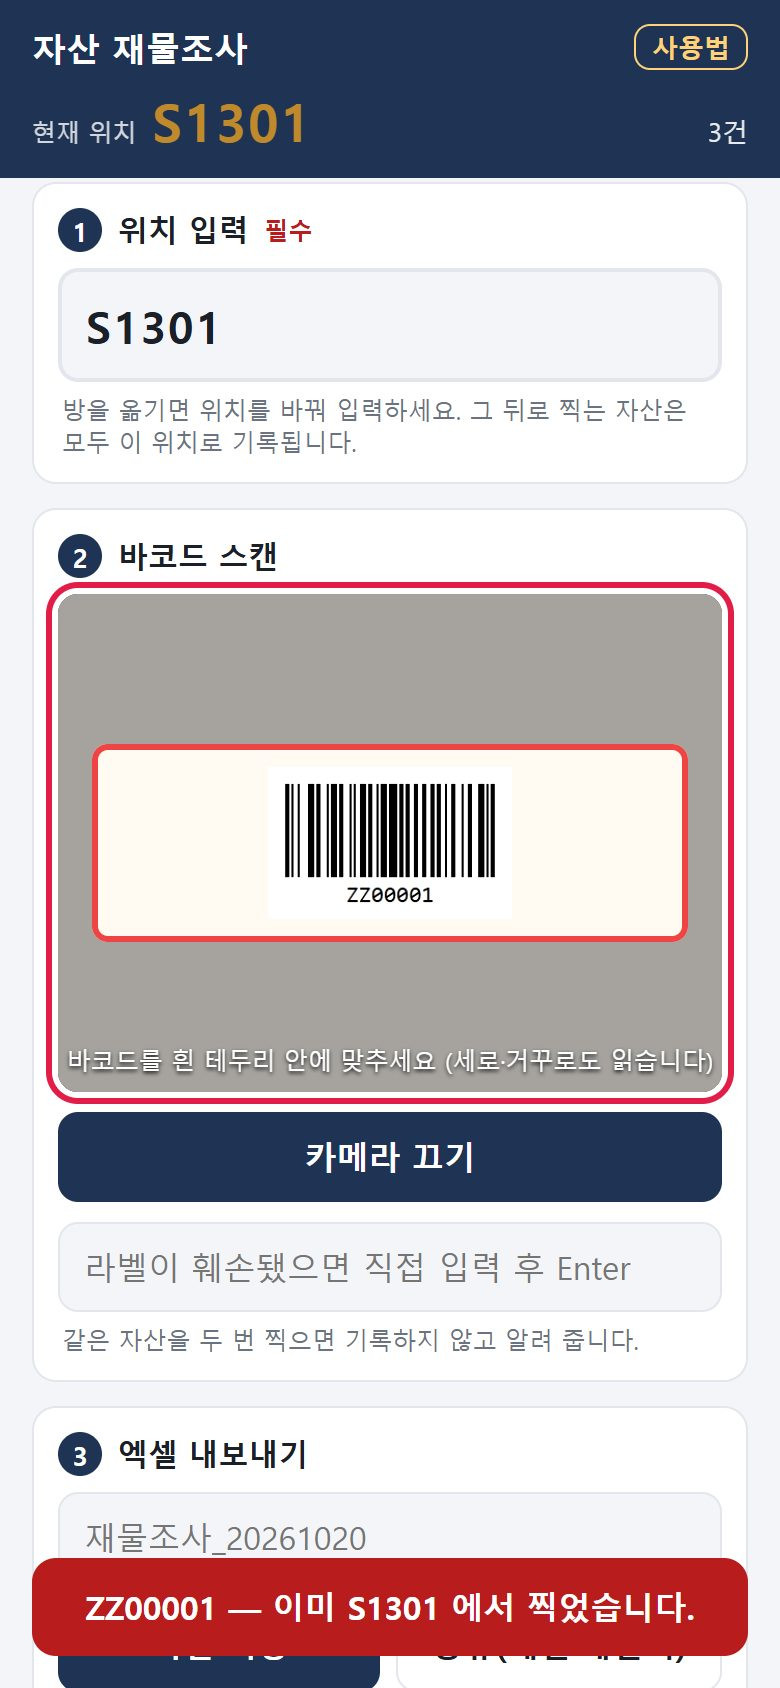
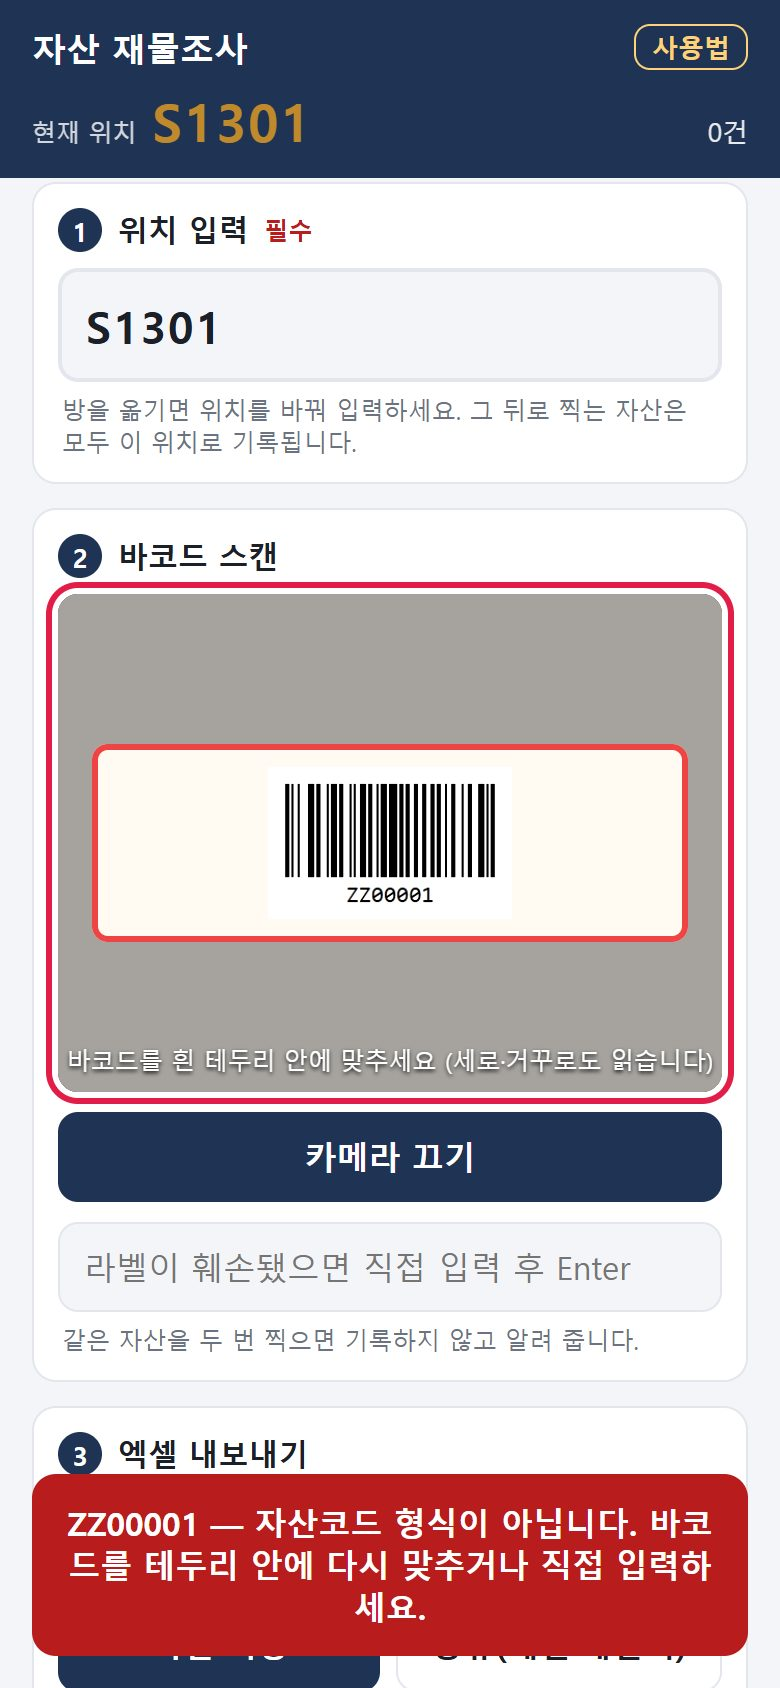
Tighten asset code rule to the real 7-char structure
Category letter + acquisition-year code (95-99 or A0-C9) + 4-digit serial.
Matches all 23,167 codes in the 2025 tangible asset register.

Changed region(s): [[0.0308, 0.8626, 0.9846, 0.9858], [0.8923, 0.0616, 0.9231, 0.0924]]

diff --git a/app.js b/app.js
@@ -25,9 +25,12 @@
 
   function norm(code) { return String(code || '').trim().toUpperCase(); }
 
-  // 카메라로 읽은 값의 자산번호 형식 — 영문 1~3자 + 숫자 4~7자리 (실측: EA91011·E950534·BC00001 등)
-  // 거꾸로·잘려 읽힌 값(예: 11019AE)을 막는다. 직접 입력은 사람이 본 값이라 검사하지 않는다.
-  var ASSET_RE = /^[A-Z]{1,3}\d{4,7}$/;
+  // 카메라로 읽은 값의 자산코드 형식 — 7자리 = 분류 1자 + 취득연도 2자 + 일련번호 4자리
+  //   분류: B 건물 · C 건물장비 · D 구축물 · E 기기장비 · F 공기구비품 · G 차량운반구 · X 소프트웨어 등 · Z 기타(예술품 등)
+  //   취득연도: 1990년대 = 숫자 2자리(95~99) / 2000년대~ = 연대 문자 + 끝자리(A0=2000, B9=2019, C5=2025)
+  //   근거: 2025 유형자산명세서 22개 시트 고유 코드 23,167건 전부 일치(261021). ⚠ 2030년(D0~)부터는 [A-C] → [A-D] 로 넓힐 것
+  // 거꾸로·잘려 읽힌 값(숫자로 시작하는 값, 6자리로 잘린 값 등)을 막는다. 직접 입력은 사람이 본 값이라 검사하지 않는다.
+  var ASSET_RE = /^[BCDEFGXZ](9\d|[A-C]\d)\d{4}$/;
 
   // 들어온 바코드 → 기록하거나 거부. source: 'camera' | 'manual'. 반환: true(기록) / false
   function handle(raw, source) {
@@ -36,7 +39,7 @@
     if (!state.location) msg = '위치를 먼저 입력하세요.';
     else if (!code) msg = '빈 값입니다.';
     else if (code.length > 10) msg = code + ' — 10자를 넘어 양식에 맞지 않습니다.';
-    else if (source === 'camera' && !ASSET_RE.test(code)) msg = code + ' — 자산번호 형식이 아닙니다. 바코드를 바로 놓고 다시 찍거나 직접 입력하세요.';
+    else if (source === 'camera' && !ASSET_RE.test(code)) msg = code + ' — 자산코드 형식이 아닙니다. 바코드를 테두리 안에 다시 맞추거나 직접 입력하세요.';
     else {
       var dup = state.records.find(function (r) { return r.barcode === code; });
       if (dup) msg = code + ' — 이미 ' + dup.location + ' 에서 찍었습니다.';

diff --git a/help.html b/help.html
@@ -160,7 +160,7 @@
       <tr><th>기록이 사라지는 경우</th><td>브라우저의 방문 기록·사이트 데이터를 지우거나, 홈 화면 앱을 삭제하면 사라집니다. <b>조사를 마치면 바로 엑셀로 내보내세요.</b></td></tr>
       <tr><th>인터넷이 없어도 되나요?</th><td>한 번 열어 둔 뒤에는 <b>비행기 모드에서도</b> 찍기와 엑셀 저장이 됩니다.</td></tr>
       <tr><th>카메라가 안 켜져요</th><td>① 위치가 비어 있지 않은지 확인합니다. ② 브라우저 설정에서 이 사이트의 카메라 권한이 「허용」인지 확인합니다.</td></tr>
-      <tr><th>「자산번호 형식이 아닙니다」가 떠요</th><td>카메라가 바코드를 잘못 읽은 경우입니다(예: 거꾸로 뒤집힌 값). 기록되지 않으니, 바코드를 테두리 안에 바로 맞춰 다시 찍거나 라벨의 번호를 <b>직접 입력</b>하세요. 같은 라벨에서 계속 뜨면 알림 화면을 캡처해 재무팀에 알려 주세요.</td></tr>
+      <tr><th>「자산코드 형식이 아닙니다」가 떠요</th><td>카메라가 바코드를 잘못 읽은 경우입니다(예: 거꾸로 뒤집힌 값, 일부만 읽힌 값). 자산코드는 7자리(분류 영문 1자 + 취득연도 2자 + 일련번호 4자리)입니다. 기록되지 않으니, 바코드를 테두리 안에 바로 맞춰 다시 찍거나 라벨의 번호를 <b>직접 입력</b>하세요. 같은 라벨에서 계속 뜨면 알림 화면을 캡처해 재무팀에 알려 주세요.</td></tr>
       <tr><th>같은 바코드가 여러 번 찍혀요</th><td>같은 라벨은 한 번만 기록되도록 되어 있습니다. 그래도 반복되면 화면을 캡처해 재무팀에 알려 주세요.</td></tr>
     </table>
   </section>
